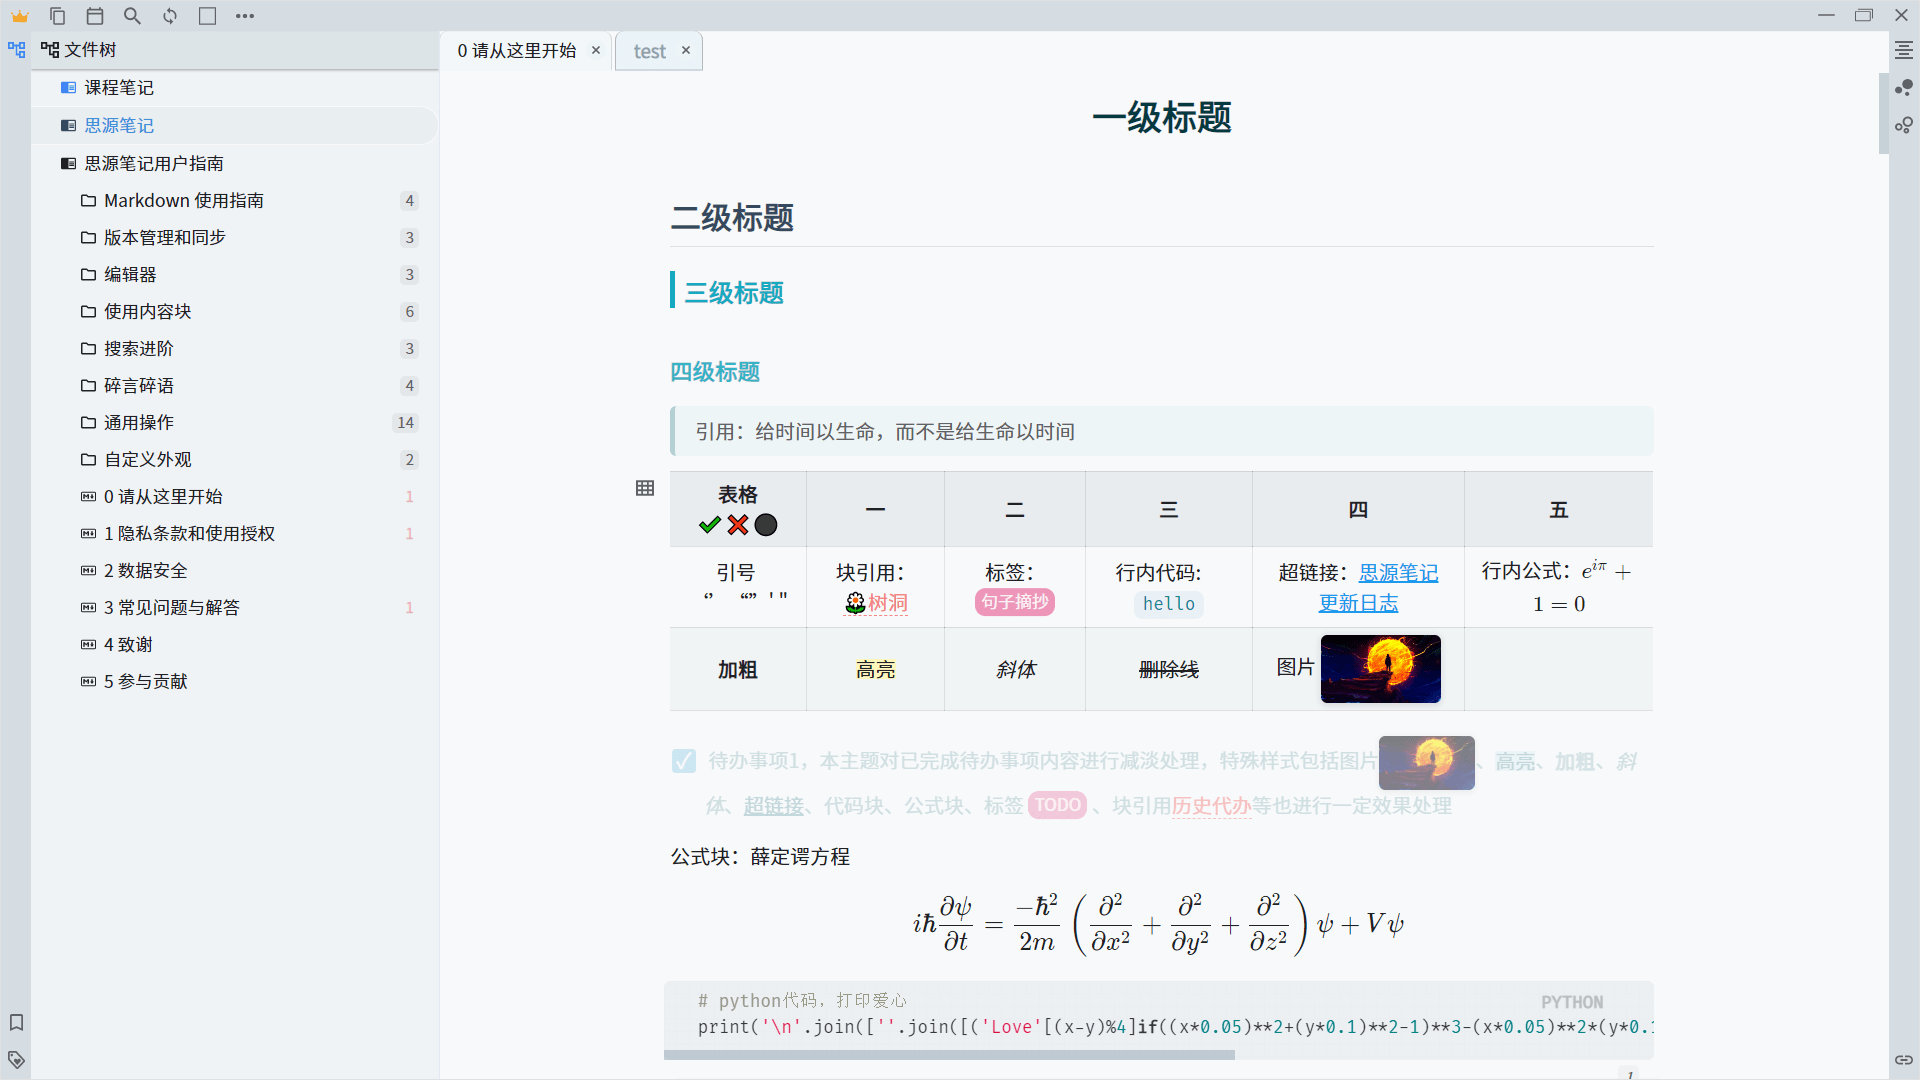
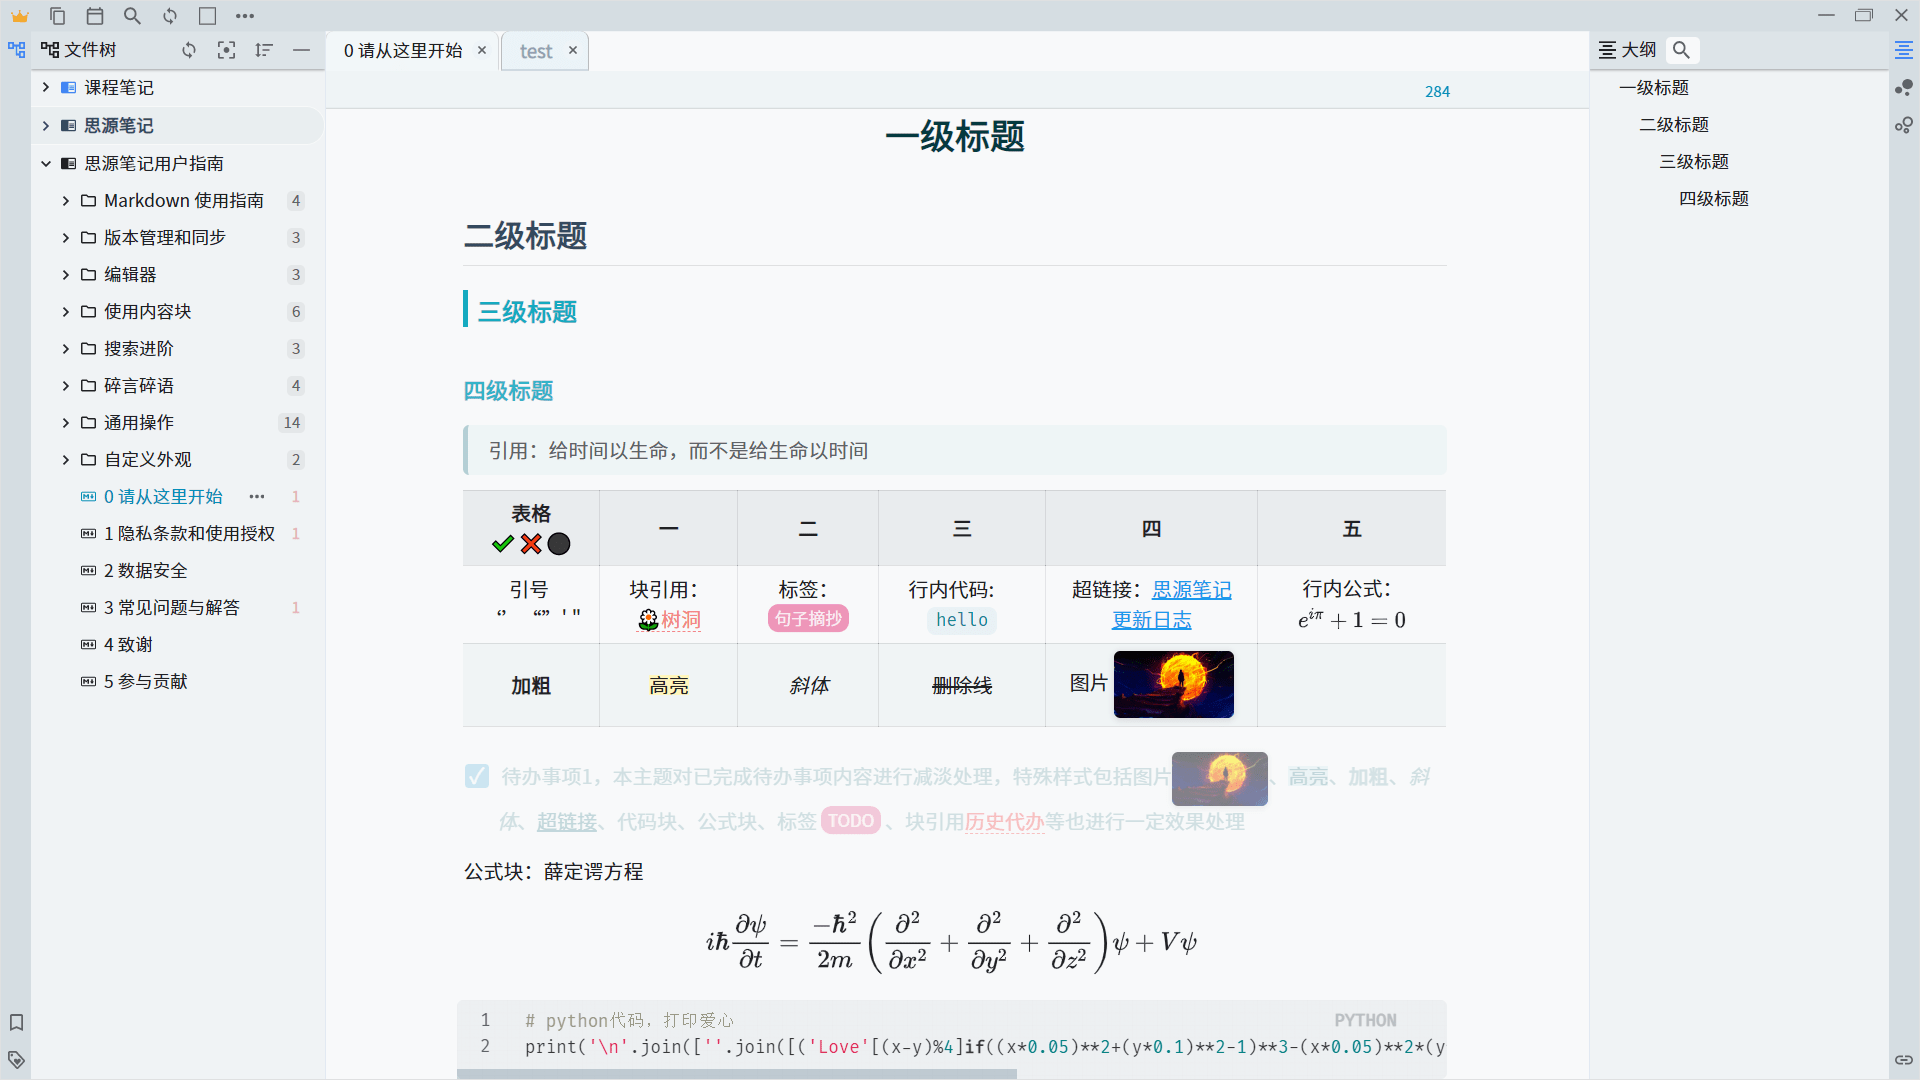
v0.2.7
- 更改黑色主题的dock栏
- 调整标签页和文件树高亮颜色
- 修复文件夹选中的颜色错误

diff --git a/theme.css b/theme.css
@@ -146,9 +146,9 @@
     --b3-vditor-inline-blockref-color: #f58484;
     --b3-vditor-inline-blockref-hover-color: #ff398b;
     /* 高亮 */
-    --b3-menu-highlight-color:#408dda;
+    --b3-menu-highlight-color:#068eb8;
     --b3-menu-highlight-focus-color:#34495e;
-    /* 文件树高亮颜色 */
+    /* 文件树背景高亮颜色 */
     --b3-menu-hover: #e5eced9c;
 }
 
@@ -595,9 +595,13 @@ li[data-type='navigation-file'] .counter {
     background-color: transparent;
     
 }
+.b3-list-item.b3-list-item--hide-action.b3-list-item--focus span:nth-child(3) {
+    color: var(--b3-menu-highlight-focus-color) !important;
+}
 /* 文件树选中,图标也改变 */
 .b3-list-item--focus {
     color: var(--b3-menu-highlight-focus-color);
+    font-weight: bold;
     background-color: var(--b3-menu-hover) !important;
     
 }
@@ -632,6 +636,7 @@ div[data-type='navigation'] .b3-list-item--focus,
 .b3-list-item.b3-list-item--big.b3-list-item--focus {
     font-size: 1.05em;
     font-weight: bold;
+    color: var(--b3-menu-highlight-focus-color);
     
 }
 /* 调整设置的select按钮 */

diff --git a/Readme.md b/Readme.md
@@ -20,6 +20,11 @@
 
 ---
 
+## v0.2.7/2021-3-13
+
+- 调整标签页和文件树高亮颜色
+- 修复文件夹选中的颜色错误
+
 ## v0.2.6/2021-3-12
 
 - 亮色主题更改dock栏配色
